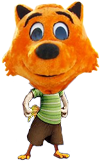
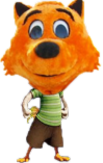
fixed images

diff --git a/HeadSoccer/Screens/GameScreen.cs b/HeadSoccer/Screens/GameScreen.cs
@@ -58,8 +58,8 @@ namespace HeadSoccer.Screens
             InitializeComponent();
             GameTimer.Enabled = true;
 
-            Player p1 = new Player(88, 200, 15, 100, 160);
-            Player p2 = new Player(893, 200, 15, 100, 160);
+            Player p1 = new Player(88, 320, 15, 80, 170);
+            Player p2 = new Player(893, 320, 15, 80, 170);
 
             Players.Add(p1);
             Players.Add(p2);
@@ -114,7 +114,9 @@ namespace HeadSoccer.Screens
         {
             Players[0].Update(5);
             Players[1].Update(5);
-            b.ballUpdate(2);
+
+            b.ballUpdate(1);
+
             Rectangle player1 = new Rectangle(Players[0].x, Players[0].y, Players[0].width, Players[0].height);
             Rectangle player2 = new Rectangle(Players[1].x, Players[1].y, Players[1].width, Players[1].height);
 
@@ -153,12 +155,12 @@ namespace HeadSoccer.Screens
             {
                 Players[0].x = Players[0].x + Players[0].speed;
             }
-            if (spaceDown == true && Players[0].y >= 200)
+            if (spaceDown == true && Players[0].y >= 300)
             {
                 Players[0].y += Convert.ToInt16(Players[0].velocityY);
                 Players[0].OnJumpKeyPressed();
             }
-            if (zDown == true && Players[1].y >= 200)
+            if (zDown == true && Players[1].y >= 300)
             {
                 Players[1].y += Convert.ToInt16(Players[0].velocityY);
                 Players[1].OnJumpKeyPressed();
@@ -174,33 +176,33 @@ namespace HeadSoccer.Screens
                 switch (CharacterScreen.rotation1)
                 {
                     case 1:
-                        e.Graphics.DrawImage(Properties.Resources.Chufu_Cry_Head, Players[0].x, Players[0].y, 99, 325);
+                        e.Graphics.DrawImage(Properties.Resources.Chufu_Cry_Head, Players[0].x, Players[0].y, 79, 170);
                         break;
                     case 2:
-                        e.Graphics.DrawImage(Properties.Resources.Cool_Cat_Head, Players[0].x, Players[0].y, 99, 325);
+                        e.Graphics.DrawImage(Properties.Resources.Cool_Cat_Head, Players[0].x, Players[0].y, 79, 170);
                         break;
                     case 3:
-                        e.Graphics.DrawImage(Properties.Resources.Ugly_Jaden_Head, Players[0].x, Players[0].y, 99, 325);
+                        e.Graphics.DrawImage(Properties.Resources.Ugly_Jaden_Head, Players[0].x, Players[0].y, 79, 170);
                         break;
                     case 4:
-                        e.Graphics.DrawImage(Properties.Resources.Thanos_Ouch_Head, Players[0].x, Players[0].y, 99, 325);
+                        e.Graphics.DrawImage(Properties.Resources.Thanos_Ouch_Head, Players[0].x, Players[0].y, 79, 170);
                         break;
                 }
 
                 switch (CharacterScreen.rotation2)
                 {
                     case 1:
-                        e.Graphics.DrawImage(Properties.Resources.Chufu_Cry_Head, Players[1].x, Players[1].y, 99, 325);
+                        e.Graphics.DrawImage(Properties.Resources.Chufu_Cry_Head, Players[1].x, Players[1].y, 79, 170);
                     
                         break;
                     case 2:
-                        e.Graphics.DrawImage(Properties.Resources.Cool_Cat_Head, Players[1].x, Players[1].y, 99, 325);
+                        e.Graphics.DrawImage(Properties.Resources.Cool_Cat_Head, Players[1].x, Players[1].y, 79, 170);
                         break;
                     case 3:
-                        e.Graphics.DrawImage(Properties.Resources.Ugly_Jaden_Head, Players[1].x, Players[1].y, 99, 325);
+                        e.Graphics.DrawImage(Properties.Resources.Ugly_Jaden_Head, Players[1].x, Players[1].y, 79, 170);
                         break;
                     case 4:
-                        e.Graphics.DrawImage(Properties.Resources.Thanos_Ouch_Head, Players[1].x, Players[1].y, 99, 325);
+                        e.Graphics.DrawImage(Properties.Resources.Thanos_Ouch_Head, Players[1].x, Players[1].y, 79, 170);
                         break;
                 }
             

diff --git a/HeadSoccer/Screens/CharacterScreen.Designer.cs b/HeadSoccer/Screens/CharacterScreen.Designer.cs
@@ -41,10 +41,10 @@
             // 
             this.Char1.BackColor = System.Drawing.Color.Transparent;
             this.Char1.BackgroundImage = global::HeadSoccer.Properties.Resources.Chufu_Cry_Head;
-            this.Char1.Location = new System.Drawing.Point(257, 132);
+            this.Char1.BackgroundImageLayout = System.Windows.Forms.ImageLayout.None;
+            this.Char1.Location = new System.Drawing.Point(256, 281);
             this.Char1.Name = "Char1";
-            this.Char1.Size = new System.Drawing.Size(120, 325);
-            this.Char1.SizeMode = System.Windows.Forms.PictureBoxSizeMode.AutoSize;
+            this.Char1.Size = new System.Drawing.Size(120, 167);
             this.Char1.TabIndex = 0;
             this.Char1.TabStop = false;
             // 
@@ -52,10 +52,10 @@
             // 
             this.Char2.BackColor = System.Drawing.Color.Transparent;
             this.Char2.BackgroundImage = global::HeadSoccer.Properties.Resources.Chufu_Cry_Head;
-            this.Char2.Location = new System.Drawing.Point(721, 132);
+            this.Char2.BackgroundImageLayout = System.Windows.Forms.ImageLayout.None;
+            this.Char2.Location = new System.Drawing.Point(727, 281);
             this.Char2.Name = "Char2";
-            this.Char2.Size = new System.Drawing.Size(120, 325);
-            this.Char2.SizeMode = System.Windows.Forms.PictureBoxSizeMode.AutoSize;
+            this.Char2.Size = new System.Drawing.Size(120, 165);
             this.Char2.TabIndex = 1;
             this.Char2.TabStop = false;
             // 

diff --git a/HeadSoccer/Classes/Player.cs b/HeadSoccer/Classes/Player.cs
@@ -13,7 +13,6 @@ namespace HeadSoccer.Classes
        public float velocityY;     // Velocity of the character
         float gravity = 0.5f;           // How strong is gravity
         public int x, y, speed, width, height;
-        int jumpHeight = 40, counter = 1;
         bool onGround = false;
 
         public Player(int _x, int _y, int _speed, int _width, int _height)
@@ -46,9 +45,9 @@ namespace HeadSoccer.Classes
             velocityY += gravity * time;        // Apply gravity to vertical velocity
             y += Convert.ToInt16(velocityY * time);      // Apply vertical velocity to X position
 
-            if (y > 200)
+            if (y > 320)
             {
-                y = 200;
+                y = 320;
                 velocityY = 00;
                 onGround = true;
             }

diff --git a/HeadSoccer/Screens/MainScreen.Designer.cs b/HeadSoccer/Screens/MainScreen.Designer.cs
@@ -104,9 +104,10 @@
             // 
             this.pictureBox1.BackColor = System.Drawing.Color.Transparent;
             this.pictureBox1.BackgroundImage = global::HeadSoccer.Properties.Resources.Thanos_Ouch_Head;
-            this.pictureBox1.Location = new System.Drawing.Point(649, 192);
+            this.pictureBox1.BackgroundImageLayout = System.Windows.Forms.ImageLayout.None;
+            this.pictureBox1.Location = new System.Drawing.Point(649, 326);
             this.pictureBox1.Name = "pictureBox1";
-            this.pictureBox1.Size = new System.Drawing.Size(105, 325);
+            this.pictureBox1.Size = new System.Drawing.Size(86, 211);
             this.pictureBox1.TabIndex = 4;
             this.pictureBox1.TabStop = false;
             // 

diff --git a/HeadSoccer/Ball.cs b/HeadSoccer/Ball.cs
@@ -22,12 +22,17 @@ namespace HeadSoccer
             ySpeed = _ySpeed;
         }
 
-        public void ballUpdate(float time)
+        public void EndJump()
+        {
+            if (velocityY < -6.0)
+                velocityY = -6;
+
+        }
+            public void ballUpdate(float time)
         {
             velocityY += gravity * time;        // Apply gravity to vertical velocity
             y += Convert.ToInt16(velocityY * time);      // Apply vertical velocity to X position
             
-
             if (y > 460)
             {
                 y = 460;
